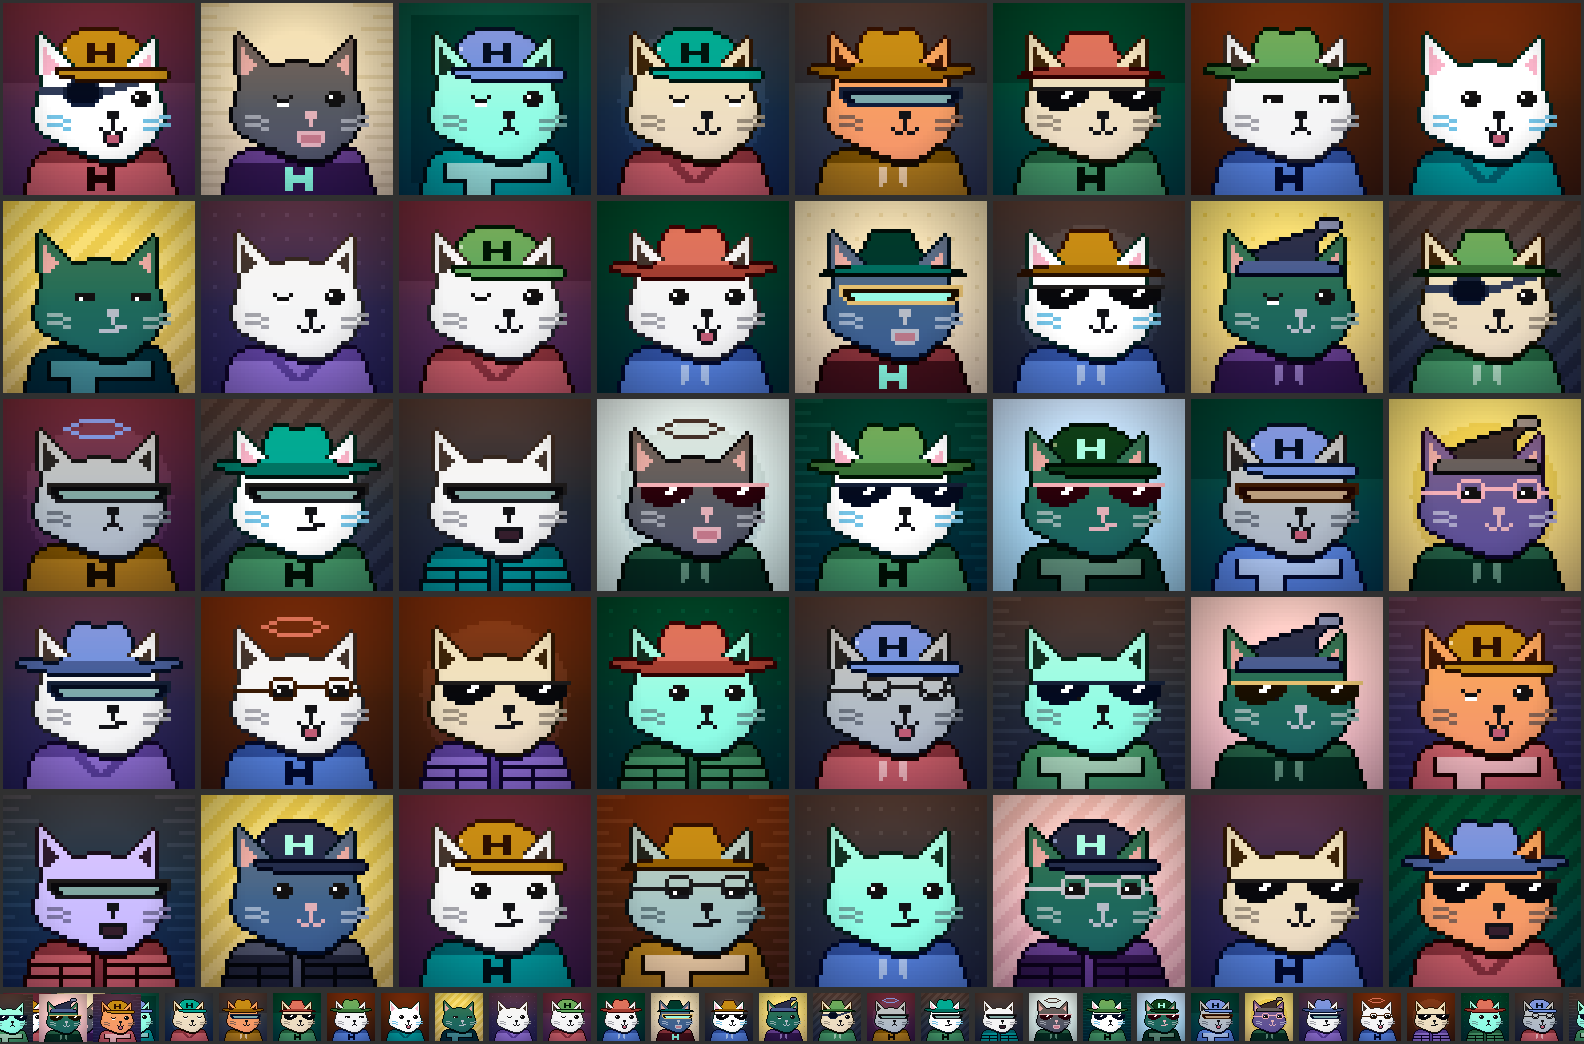
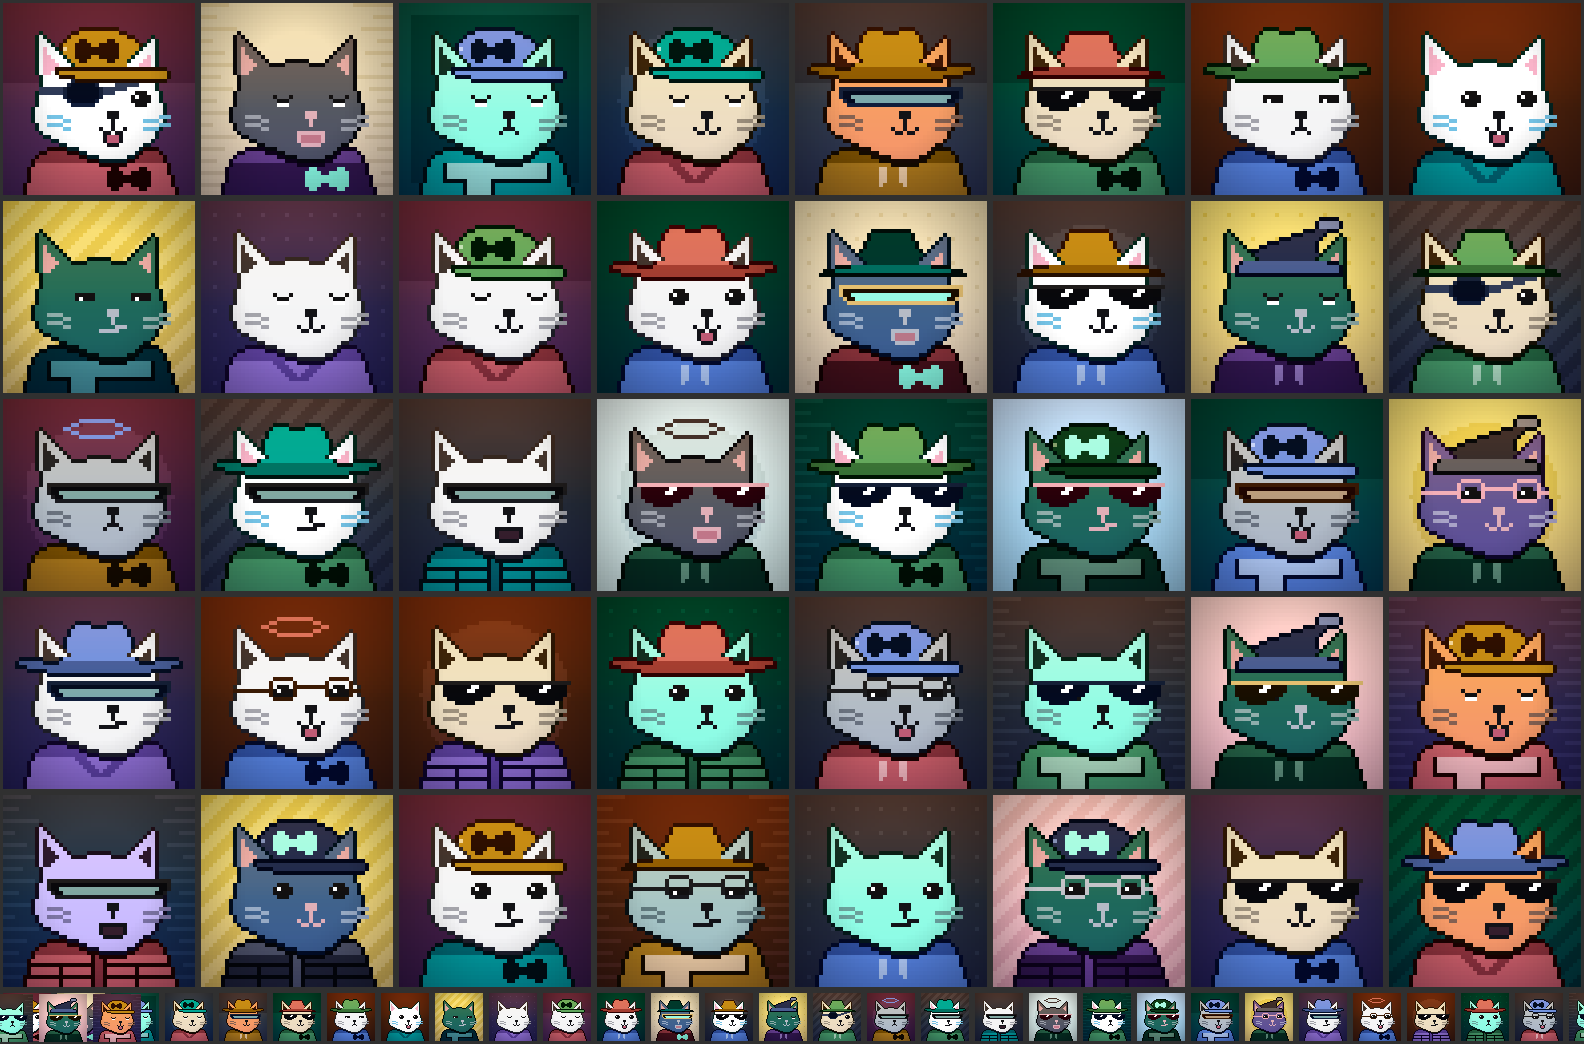
Put the real Hyperliquid mark on the cap and the hoodie
The traits wore a letter H, which was the reference artist's shorthand rather
than the brand mark. They now wear the mark itself, box-filtered off the
official path at 11x6.

The old note said not to attempt this a fourth time, and it was right about the
shape and wrong about the reason. Six rows is all either slot has -- the cap's
crown is rows 8-13 and the chest is 40-45, with the jaw's ink line above and the
canvas edge below -- and the mark's waist is about a third of its lobe height,
so six rows cannot hold that ratio and look like anything but a bow tie. Twenty
or so glyphs went the other way and flattened the pinch, and every one of them
collapsed back into the letter H being removed. There is no third shape.

What the earlier attempts missed is that the reading is decided by position, not
by pixels. Centred on the chest the mark lands under the throat, which is where
a bow tie goes; out on the right chest at column 26 the same pixels read as a
badge on a garment. The cap keeps its mark centred, because nothing wears a bow
tie on its head and there is no competing reading to dodge there.

Thirteen wide is a dumbbell -- the pinch stays one pixel deep while the span it
interrupts gets longer -- and column 27 crowds the edge of the torso, so the
mark is eleven wide at 26.

Both traits are renamed to cap-logo and hoodie-logo now the H is gone.

Also carries the earlier removal of the wink, which shares the manifest and the
[…]

diff --git a/packages/hyper-identicons/src/art/data/clothing.ts b/packages/hyper-identicons/src/art/data/clothing.ts
@@ -1,6 +1,6 @@
 // Generated by scripts/build-art.ts from art-source/clothing. Do not edit.
 export const clothing: Record<string, string> = {
[1 lines of base64/hex data omitted]
+  "hoodie-logo": 'JAUMJwYABQETAAQBCQACAQUHAwEPAAEBBAcBAQcAAQEKBwIBDAABAQYHAQEFAAEBDQcDAQcAAgEHBwEBBQABARAGBwEKBgEBAwABARQGAgsFBgILBQYBAQMAAQETBgQLAgYFCwQGAQEDAAEBEwYLCwUGAQECAAEBEwYLCwUGAQEBAAEBFAYECwIGBQsFBgEBAQABARUGAgsFBgILBwYCASUGAQE=',
[1 lines of base64/hex data omitted]
   "tee": 'JAUMJwYABQETAAQBCQACAQUHAwEPAAEBBAcBAQcAAQEKBwIBDAABAQYHAQEFAAEBDQcDAQcAAgEHBwEBBQABAQoGAwcDBgcBCgYBAQMAAQEMBgMHBQYDBwsGAQEDAAEBDQYDBwMGAwcMBgEBAwABAQ4GAwcBBgMHDgYBAQIAAQEPBgUHDwYBAQEAAQEkBgEBAQABASUGAgElBgEB',
[1 lines of base64/hex data omitted]

diff --git a/packages/hyper-identicons/src/art/manifest.ts b/packages/hyper-identicons/src/art/manifest.ts
@@ -26,7 +26,7 @@ export const MANIFEST: Manifest = {
   clothing: {
     id: 'clothing',
     art: [
-      { id: "hoodie-h", name: "Hyper Hoodie", weight: 22 },
+      { id: "hoodie-logo", name: "Hyper Hoodie", weight: 22 },
       { id: "hoodie", name: "Hoodie", weight: 19 },
       { id: "tee", name: "Tee", weight: 19 },
       { id: "puffer", name: "Puffer", weight: 17 },
@@ -51,7 +51,6 @@ export const MANIFEST: Manifest = {
       { id: "round", name: "Round", weight: 34 },
       { id: "squint", name: "Squint", weight: 20 },
       { id: "sleepy", name: "Sleepy", weight: 14 },
-      { id: "wink", name: "Wink", weight: 10 },
     ],
     colorways: COLORWAYS.eyes,
   },
@@ -70,7 +69,7 @@ export const MANIFEST: Manifest = {
     id: 'headwear',
     art: [
       { id: "none", name: "None", weight: 26 },
-      { id: "cap-h", name: "Hyper Cap", weight: 24 },
+      { id: "cap-logo", name: "Hyper Cap", weight: 24 },
       { id: "bucket", name: "Bucket", weight: 18 },
       { id: "cowboy", name: "Meowdy", weight: 14 },
       { id: "nightcap", name: "Nightcap", weight: 10 },

diff --git a/packages/hyper-identicons/src/art/data/headwear.ts b/packages/hyper-identicons/src/art/data/headwear.ts
@@ -1,7 +1,7 @@
 // Generated by scripts/build-art.ts from art-source/headwear. Do not edit.
 export const headwear: Record<string, string> = {
   "none": 'AAABAQEA',
[4 lines of base64/hex data omitted]
   "nightcap": 'BAsPGxUABQEVAAEBBQgBARQAAQEFCAEBEQADAQMGAwEPAAMBBQYBAQ8AAwEHBgEBDQADAQkGAQEMAAIBDAYBAQoAAgEOBgEBCwAQBgwADgYIAAEBFQcDAQEAAQEZBwIBGQccAQ==',

diff --git a/packages/hyper-identicons/scripts/render-reference.ts b/packages/hyper-identicons/scripts/render-reference.ts
@@ -16,11 +16,11 @@ import type { LayerChoice, LayerId } from '../src/core/types.js';
 const WANTED: Record<LayerId, [art: string, colorway: string]> = {
   background: ['plain', 'sand'],
   body: ['base', 'snow'],
-  clothing: ['hoodie-h', 'hyper'],
+  clothing: ['hoodie-logo', 'hyper'],
   mouth: ['neutral', 'coal'],
   eyes: ['round', 'coal'],
   accessory: ['shades-thug', 'noir'],
-  headwear: ['cap-h', 'hyper'],
+  headwear: ['cap-logo', 'hyper'],
 };
 
 const choices: LayerChoice[] = LAYER_ORDER.map((layer) => {

diff --git a/packages/hyper-identicons/src/art/data/eyes.ts b/packages/hyper-identicons/src/art/data/eyes.ts
@@ -3,5 +3,4 @@ export const eyes: Record<string, string> = {
   "round": 'FhIEEwEAAwoLAAMKAQABCgENAg4BCgkAAQoBDQIOAgoDDgEKCQABCgMOAQoBAAMKCwADCgEA',
   "squint": 'FxICEwUKCQAGCgENAg4BCgkAAQoBDQIOAQo=',
   "sleepy": 'FxIDEwEKAwABCgkAAQoDAAEKAQADCgsAAwoCAAMNCwADDQEA',
-  "wink": 'FhIEEg4AAwoBAAEKAwABCggAAQoBDQIOAQoBAAMKCQABCgMOAQoBAAMNCgADCgEA',
 };

diff --git a/tools/make-traits.py b/tools/make-traits.py
@@ -231,6 +231,52 @@ def inked(spans, slot="o", floor=None):
     return out
 
 
+# The Hyperliquid mark: two rounded lobes pinched to a waist, box-filtered off the
+# official path. Both places it goes -- the cap's crown and the chest -- have
+# exactly six usable rows, and that is what fixes the size.
+#
+# Eleven wide, not thirteen. At thirteen the waist is the same one pixel of pinch
+# across a longer span and the thing reads as a dumbbell.
+#
+# The shape is a bow tie, and there is no version of it at this size that is not:
+# the mark's waist is about a third of its lobe height, and six rows cannot hold
+# that ratio and look like anything else. Flattening the pinch to escape it was
+# tried across about twenty glyphs and every one collapsed into a plain letter H,
+# which is what this used to be. So the pinch stays and the placement does the
+# work instead -- see the hoodie.
+BLOB = (
+    ".##.....##.",
+    "####..#####",
+    "###########",
+    "###########",
+    "####..#####",
+    ".##.....##.",
+)
+
+
+def glyph(rows, top, left, ch="h"):
+    """Place an ASCII glyph as span runs, one run per unbroken stretch of '#'.
+
+    A logo is the one thing here worth authoring as a picture rather than as a
+    span table: the whole question about it is what shape it is.
+    """
+    out = {}
+    for dy, row in enumerate(rows):
+        runs, x = [], 0
+        while x < len(row):
+            if row[x] != "#":
+                x += 1
+                continue
+            x1 = x
+            while x1 + 1 < len(row) and row[x1 + 1] == "#":
+                x1 += 1
+            runs.append((left + x, left + x1, ch))
+            x = x1 + 1
+        if runs:
+            out[top + dy] = runs
+    return out
+
+
 def sockets(pattern, top, left):
     """Draw one eye socket and copy it across the face, so both eyes match."""
     span = (left, left + max(x1 for runs in pattern for _, x1, _ in runs))
@@ -251,9 +297,9 @@ emit("eyes/round.txt", sockets([
 ], top=21, left=14), "# Round eyes. Slots: k rim, e glint, i iris.", shift=MUZZLE)
 
 # A shut or narrowed eye is a dark line, and a dark line on a dark cat is nothing
-# at all -- these three were the only traits that could leave a face completely
+# at all -- these two were the only traits that could leave a face completely
 # blank at 48px. Every one of them now carries a glint row: the squint keeps the
-# round eye's highlight in its slit, and the two shut lids get a lit crease
+# round eye's highlight in its slit, and the shut lids get a lit crease
 # underneath. Whichever way the fur goes, one of the two rows contrasts with it.
 emit("eyes/squint.txt", sockets([
     [(0, 4, "k")],
@@ -265,15 +311,6 @@ emit("eyes/sleepy.txt", sockets([
     [(1, 3, "k")],
     [(1, 3, "e")],
 ], top=22, left=14), "# Contentedly shut. Slots: k lid, e crease.", shift=MUZZLE)
-
-# The shut eye is built exactly as the sleepy pair is, corner ticks and all. As a
-# plain dash it read as a filled wedge rather than a closed lid.
-emit("eyes/wink.txt", {
-    21: [(28, 30, "k")],
-    22: [(14, 14, "k"), (18, 18, "k"), (27, 27, "k"), (28, 28, "e"), (29, 30, "i"), (31, 31, "k")],
-    23: [(15, 17, "k"), (27, 27, "k"), (28, 30, "i"), (31, 31, "k")],
-    24: [(15, 17, "e"), (28, 30, "k")],
-}, "# One eye shut. Slots: k rim, e glint, i iris.", shift=MUZZLE)
 
 # Nose at rows 26-27, a philtrum down to 29, mouth from 30. The reference hangs
 # the muzzle this low: the jaw runs to row 39, and a mouth any higher than this
@@ -402,22 +439,31 @@ print("headwear:")
 # Shell and peak are inked as one shape and only the shell rows are cut against
 # the ears, so the peak stays a single unbroken sweep and the shell's sides vanish
 # under the ear rather than stopping at a black line beside it.
-emit("headwear/cap-h.txt", hat({
+#
+# The mark is bottom-anchored at row 13. Rows 8 to 13 are the only ones where the
+# crown is both wide enough and clear of the ear cut, so the glyph's height is what
+# it is because the crown has six usable rows, not because six reads best.
+#
+# Centred, unlike the one on the hoodie. The hoodie's has to move off centre to
+# stop reading as a bow tie, but nothing wears a bow tie on its head, so the cap
+# has no competing reading to dodge and a crown badge belongs in the middle.
+emit("headwear/cap-logo.txt", hat(merge({
     5: [(19, 28, "a")],
     6: [(17, 30, "a")],
     7: [(16, 32, "a")],
     8: [(15, 33, "a")],
-    9: [(14, 34, "a"), (21, 22, "h"), (26, 27, "h")],
-    10: [(14, 34, "a"), (15, 15, "c"), (21, 22, "h"), (26, 27, "h")],
-    11: [(13, 35, "a"), (14, 14, "c"), (21, 27, "h")],
-    12: [(13, 35, "a"), (14, 14, "c"), (21, 22, "h"), (26, 27, "h")],
-    13: [(13, 35, "a"), (21, 22, "h"), (26, 27, "h")],
+    9: [(14, 34, "a")],
+    10: [(14, 34, "a"), (15, 15, "c")],
+    11: [(13, 35, "a"), (14, 14, "c")],
+    12: [(13, 35, "a"), (14, 14, "c")],
+    13: [(13, 35, "a")],
     14: [(13, 36, "a")],
     15: [(13, 40, "o")],
     16: [(13, 41, "a")],
     17: [(14, 41, "a")],
     18: [(18, 40, "a")],
-}, crown=range(0, 15)), "# The reference cap. Slots: a shell, c seam, h logo, o ink.")
+}, glyph(BLOB, 8, 18)), crown=range(0, 15)),
+     "# The reference cap. Slots: a shell, c seam, h mark, o ink.")
 
 # No beanie. It was a dome over a cuff, which is the bucket hat with the brim
 # swapped for a band, and the two never stopped competing: every fix that made the
@@ -572,26 +618,20 @@ emit("clothing/tee.txt", garment({
     43: [(22, 26, "b")],
 }), "# V-neck tee. Slots: a fabric, b neckline.")
 
-# Taller than it is wide, and only two columns per stem. At eleven wide with a
-# centre bar it read as a dumbbell rather than an H.
-emit("clothing/hoodie-h.txt", garment({
-    **COLLAR,
-    40: [(21, 22, "h"), (26, 27, "h")],
-    41: [(21, 22, "h"), (26, 27, "h")],
-    42: [(21, 27, "h")],
-    43: [(21, 27, "h")],
-    44: [(21, 22, "h"), (26, 27, "h")],
-    45: [(21, 22, "h"), (26, 27, "h")],
-}), "# The reference hoodie. Slots: a body, b collar, h logo.")
-
-# No blob hoodie. The real Hyperliquid mark is two rounded lobes joined at a waist,
-# and I drew it faithfully -- box-filtered off the official path at 13x9, correct
-# waist depth, correct four-column clearance between the lobes. It is a bow tie. It
-# is a bow tie centred on the chest and it is still a bow tie moved onto the near
-# shoulder, because at this size any pinched horizontal shape with two round ends
-# is a bow tie, and accuracy does not outvote that. Redrawing it as an H just made
-# a second copy of the hoodie above, so the blob variant is gone and the reference
-# artist's H -- which the cap also wears -- is the one Hyperliquid mark in the set.
+# Row 39 is not free even though the collar stops at 38: the jaw is cut out of the
+# torso above it, so 39 carries the ink line closing that hole. That leaves rows 40
+# to 45, and it is why the mark is six rows rather than seven -- a seventh row lands
+# on the last row of the canvas and the mark reads as cropped.
+#
+# Off centre, and that is the whole reason the mark is wearable here. Centred it
+# lands under the throat, which is where a bow tie goes, and the shape is close
+# enough to one that the position decides the reading. Out on the chest the same
+# pixels read as a badge on a garment. It goes to the viewer's right: that is the
+# near side of a three-quarter view, and the wearer's left, which is the side a
+# chest logo sits on. Column 26 rather than 27 -- a column further out and the
+# outer lobe crowds the edge of the torso.
+emit("clothing/hoodie-logo.txt", garment(merge(COLLAR, glyph(BLOB, 40, 26))),
+     "# The reference hoodie. Slots: a body, b collar, h mark.")
 
 # A scarf, to replace some of what the suit and the jersey took with them when they
 # went. Overalls were the first attempt and failed the way the suit did: braces have

diff --git a/tools/preview.py b/tools/preview.py
@@ -5,7 +5,7 @@ Colours here are a fixed debug palette approximating the reference art; the
 real colourways live in src/art/colorways.ts.
 
 Usage:
-    python3 tools/preview.py body/base headwear/cap-h accessory/shades-thug
+    python3 tools/preview.py body/base headwear/cap-logo accessory/shades-thug
     python3 tools/preview.py --ref body/base            # side by side with the trace
 """
 

diff --git a/AGENTS.md b/AGENTS.md
@@ -298,16 +298,30 @@ Things worth keeping in mind:
 Researched from the Foundation's own brand kit and sticker set rather than from
 secondhand write-ups. The things worth remembering:
 
-- **The Hyperliquid mark is not an H, and we ship an H anyway.** The real mark is
-  a "blob": two rounded lobes joined by a pinched waist, the right one taller.
-  It was drawn faithfully — box-filtered off the official path at 13x9, waist two
-  full rows deep, four columns of clearance between the lobes — and it read as a
-  bow tie. Centred on the chest, and still a bow tie moved onto the near shoulder,
-  because at this size *any* pinched horizontal shape with two round ends is a bow
-  tie and accuracy does not outvote that. Don't try it a fourth time. The `h` logo
-  on `hoodie-h` and `cap-h` is the reference artist's shorthand and it is the one
-  Hyperliquid mark in the set. It needs to be taller than it is wide with two-column
-  stems; at eleven wide with a centre bar it reads as a dumbbell.
+- **The Hyperliquid mark is a bow tie at this size, and the fix is where it sits,
+ not what shape it is.** The mark is two rounded lobes pinched to a waist about a
+ third of their height. `BLOB` in `tools/make-traits.py` is it, eleven by six, worn
+ by `cap-logo` and `hoodie-logo`.
+
+ Six rows is all there is, in both places the mark can go: the cap's crown is rows
+ 8-13, above which it tapers into its own outline and below which the seam starts;
+ the chest is rows 40-45, with row 39 taken by the ink line closing the jaw cut-out
+ and row 46 the last row of the canvas, where the mark reads as cropped. Six rows
+ cannot hold a one-third waist and look like anything but a bow tie. Flattening the
+ pinch to escape that was tried across about twenty glyphs at every width from 9 to
+ 13, and every one collapsed into a plain letter H, which is what the trait used to
+ be. There is no third shape in the range — don't go looking for one.
+
+ What actually works is position. Centred on the chest the mark lands under the
+ throat, which is exactly where a bow tie goes, and at that size the position
+ decides the reading. Out on the chest at column 26 the same pixels read as a badge
+ on a garment. The cap needs no such dodge and stays centred, because nothing wears
+ a bow tie on its head, so there is no competing reading to fall into.
+
+ Two things this cost, worth not rediscovering. Thirteen wide is a dumbbell: the
+ pinch is still one pixel deep but the span it interrupts is longer, so the lobes
+ stop being lobes and become weights. And one column further out, at 27, the outer
+ lobe crowds the edge of the torso.
 - **Hypurr is the ecosystem's cat and he already has a costume**: white fur shaded
   in pale *blue* rather than grey, a near-black hoodie, a mint blob on the chest.
   The `hypurr` fur colourway quotes his palette. His shading is `#88D5F0`, which

diff --git a/README.md b/README.md
@@ -111,5 +111,6 @@ retains the underlying IP and individual holders hold enforceable licences to th
 specific character. Keep new traits clearly distinct from that collection.
 
 A few traits quote Hyperliquid deliberately and should be understood as fan work: the
-`hoodie-h` garment and `cap-h` headwear carry an H, and the `frost` fur uses the pale
-blue the ecosystem shades its cat with. Neither is a licensed use.
+`hoodie-logo` garment and `cap-logo` headwear carry the Hyperliquid mark, and the
+`frost` fur uses the pale blue the ecosystem shades its cat with. Neither is a
+licensed use.
